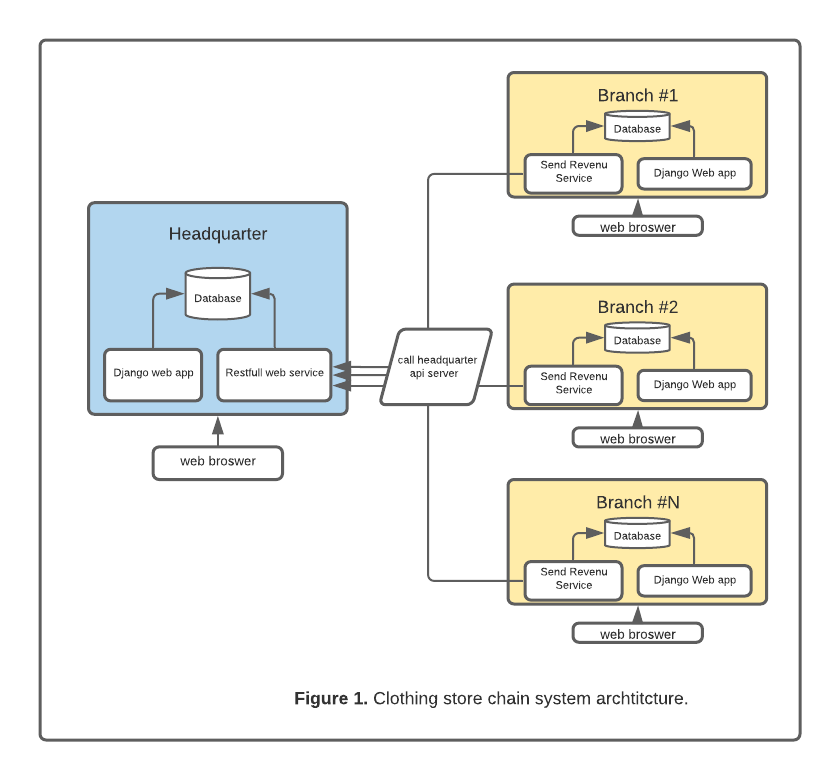
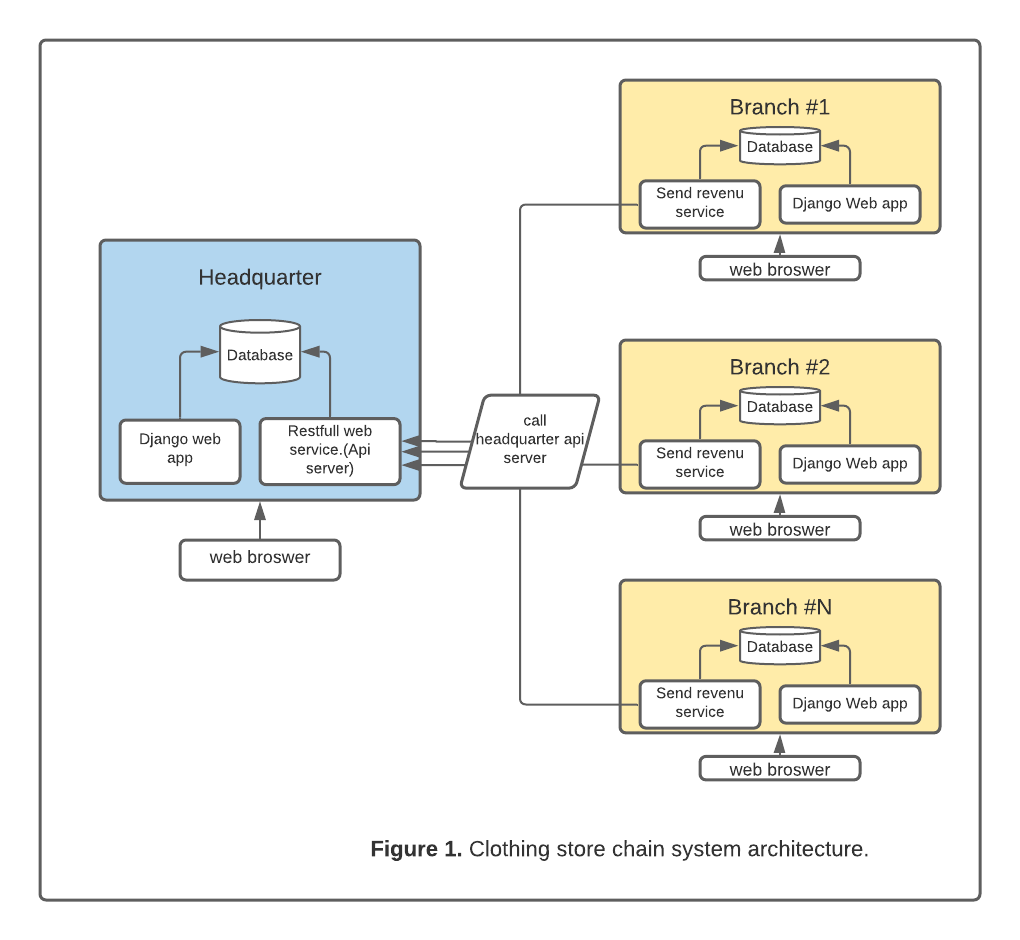
update png files of system archticture

Changed region(s): [[0.031, 0.0308, 0.9905, 0.9846]]

diff --git a/README.md b/README.md
@@ -36,7 +36,7 @@ As for ERD branch office. it has 4 tables, Products table that contains informat
 The auth table is a common table required for both headquarter and branch office and it is separated in purpose to avoid centeralized authentication from the same server.
 
 ### How to setup the system.
-============================
+
 [to be added later]
 
 
